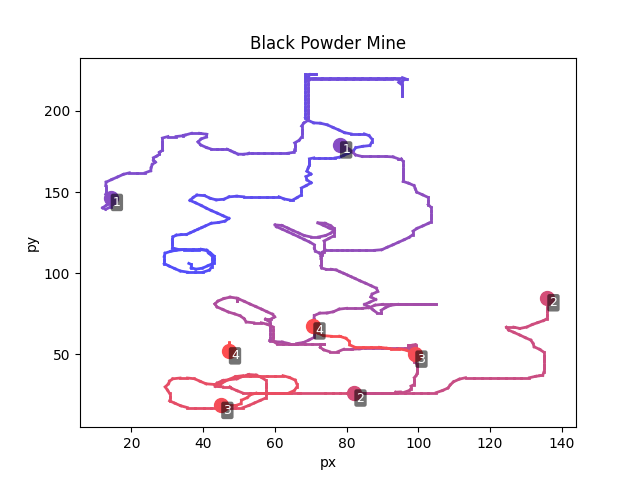
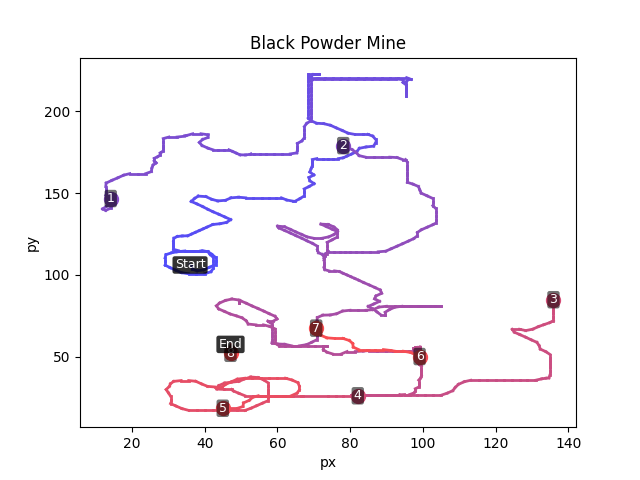
updated visualizer.py

diff --git a/Notebook/path-visualizer.py b/Notebook/path-visualizer.py
@@ -26,7 +26,7 @@ def random_file(folder):
 
 def recent_file(folder):
     files = [f for f in os.listdir(folder) if f.endswith('.jsonl')]
-    files.sort(key=lambda f: int(f.split('_')[1].split('.')[0]))  # convert to int
+    files.sort(key=lambda f: int(f.split('_')[1].split('.')[0])) 
     return os.path.join(folder, files[-1]) if files else None
 
 def points_by_level(records):
@@ -37,29 +37,30 @@ def points_by_level(records):
             by_level[lvl].append((float(r["px"]), float(r["py"])))
     return by_level
 
-def plot_list(points, name, same_tol=2.0):
+def plot_list(points, name, same_tol=10):
     n = len(points)
     if n < 2:
         return
 
-    # gradient colors for points
+    # gradient colors
     t = np.linspace(0, 1, max(n - 1, 1))
     start = np.array([0.3, 0.3, 1.0])
     end   = np.array([1.0, 0.3, 0.3])
     colors = [tuple(start*(1 - val) + end*val) for val in t]
 
-    # counts many labels already placed near the coordinate
-    def key_xy(x, y):
+    def bucket(x, y):
         return (int(round(x / same_tol)), int(round(y / same_tol)))
 
     placed_counts = defaultdict(int)
 
     def offset_for(x, y):
-        k = key_xy(x, y)
-        idx = placed_counts[k]
-        placed_counts[k] += 1
+        key = bucket(x, y)
+        idx = placed_counts[key]
+        placed_counts[key] += 1
+        if idx == 0:
+            return 0.0, 0.0
         r = 3.5  # pixels
-        angle = (idx - 1) * (np.pi / 3 )  # 45° steps
+        angle = (idx - 1) * np.pi  
         return r * np.cos(angle), r * np.sin(angle)
 
     tp = 1
@@ -68,9 +69,19 @@ def plot_list(points, name, same_tol=2.0):
         x1, y1 = points[i]
         x2, y2 = points[i + 1]
         length = np.hypot(x2 - x1, y2 - y1)
+        
+        if i == 0:
+            plt.text(x1, y1, "Start", fontsize=9, ha='center', va='center',
+                     color='white', bbox=dict(boxstyle='round,pad=0.18', fc='black', ec='none', alpha=0.8))
 
-        if length > 20:  # Checks if Teleported
+        if i == (n - 2):
+            plt.text(x2, y2, "End", fontsize=9, ha='center', va='center',
+                     color='white', bbox=dict(boxstyle='round,pad=0.18', fc='black', ec='none', alpha=0.8))
+                     
+        if length > 20:  # jump/teleport
             c = colors[i]
+
+            # point 1
             plt.plot(x1, y1, 'o', color=c, markersize=markersize)
             dx, dy = offset_for(x1, y1)
             if dx or dy:
@@ -78,6 +89,9 @@ def plot_list(points, name, same_tol=2.0):
             plt.text(x1 + dx, y1 + dy, str(tp), fontsize=9, ha='center', va='center',
                      color='white', bbox=dict(boxstyle='round,pad=0.18', fc='black', ec='none', alpha=0.55))
 
+            tp += 1
+            
+            # point 2
             plt.plot(x2, y2, 'o', color=c, markersize=markersize)
             dx2, dy2 = offset_for(x2, y2)
             if dx2 or dy2:
@@ -86,7 +100,7 @@ def plot_list(points, name, same_tol=2.0):
                      color='white', bbox=dict(boxstyle='round,pad=0.18', fc='black', ec='none', alpha=0.55))
 
             tp += 1
-        else: # Checks if not Teleported, connects the points
+        else:
             plt.plot([x1, x2], [y1, y2], color=colors[i], linewidth=2)
 
     plt.title(name)
